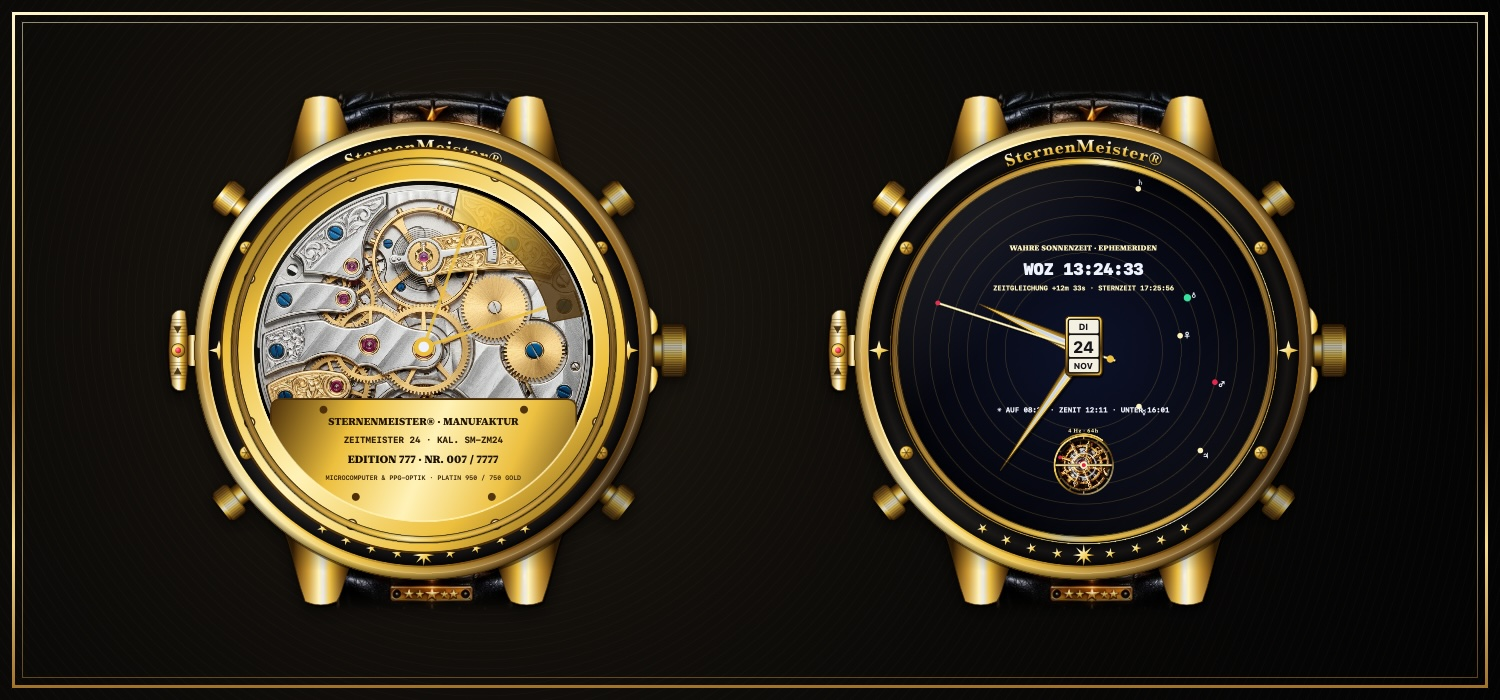
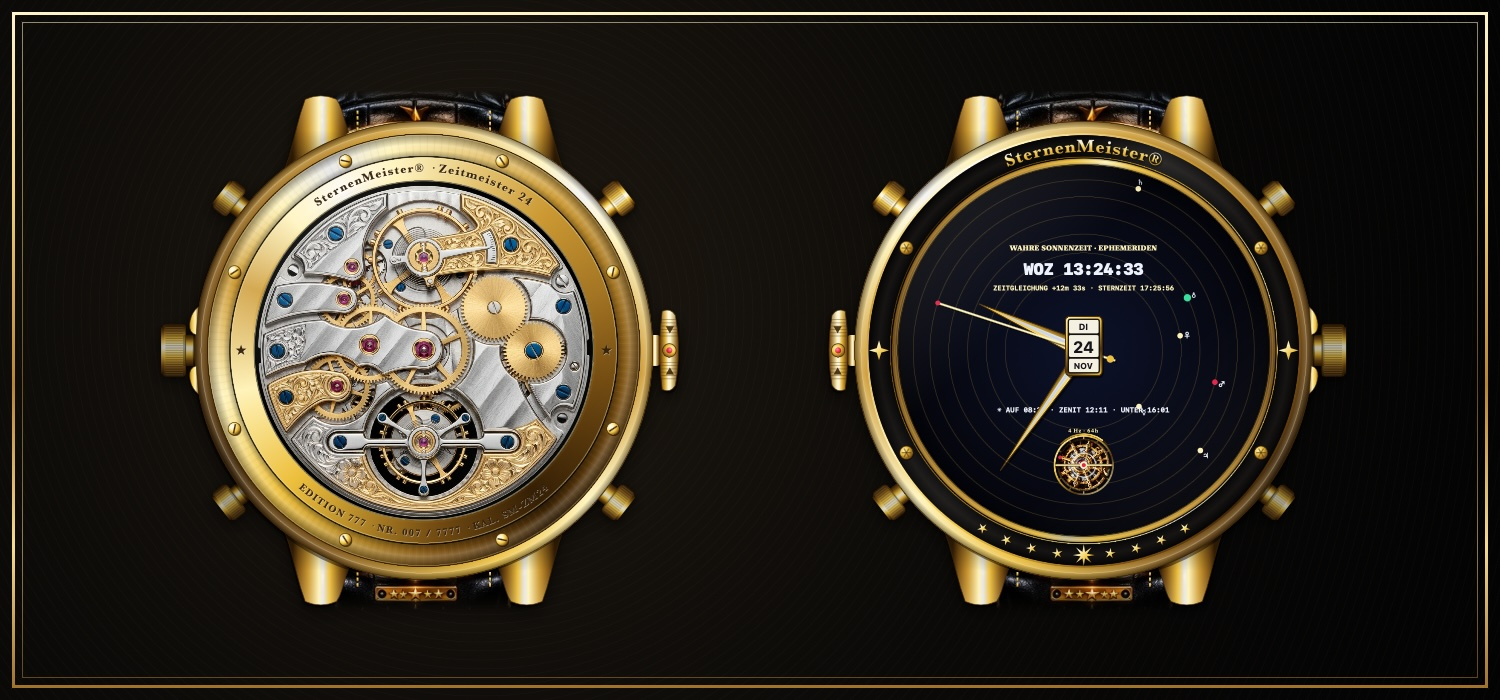
feat: v2.8.1 (Build 35) – real case back with flip animation; updated case back images

Changed region(s): [[0.092, 0.12, 0.46, 0.87]]

diff --git a/README.ru.md b/README.ru.md
@@ -8,7 +8,7 @@
 <h3 align="center"><i>24-часовые аналоговые гибридные часы</i> · Часы гиперлюкс-класса для рабочего стола macOS</h3>
 
 <p align="center">
-  <a href="https://github.com/SonnerStudio/SternenMeister-ZeitMeister24-Widget/releases/latest/download/Zeitmeister24-Widget-macOS.zip"><img src="https://img.shields.io/badge/Скачать-v2.8.0-d4af37?style=for-the-badge&labelColor=0b0a08" alt="Скачать"></a>
+  <a href="https://github.com/SonnerStudio/SternenMeister-ZeitMeister24-Widget/releases/latest/download/Zeitmeister24-Widget-macOS.zip"><img src="https://img.shields.io/badge/Скачать-v2.8.1-d4af37?style=for-the-badge&labelColor=0b0a08" alt="Скачать"></a>
   <a href="https://github.com/SonnerStudio/SternenMeister-ZeitMeister24-Widget/releases/latest"><img src="https://img.shields.io/badge/Примечания%20к%20выпуску-GitHub-e5e4e2?style=for-the-badge&labelColor=0b0a08" alt="Примечания к выпуску"></a>
   <img src="https://img.shields.io/badge/macOS-14%2B-c9a14a?style=for-the-badge&labelColor=0b0a08" alt="macOS 14+">
   <img src="https://img.shields.io/badge/Editions-9-e5e4e2?style=for-the-badge&labelColor=0b0a08" alt="9">

diff --git a/README.ar.md b/README.ar.md
@@ -8,7 +8,7 @@
 <h3 align="center"><i>ساعة هجينة تناظرية بنظام 24 ساعة</i> · ساعة فائقة الفخامة لسطح مكتب macOS</h3>
 
 <p align="center">
-  <a href="https://github.com/SonnerStudio/SternenMeister-ZeitMeister24-Widget/releases/latest/download/Zeitmeister24-Widget-macOS.zip"><img src="https://img.shields.io/badge/تنزيل-v2.8.0-d4af37?style=for-the-badge&labelColor=0b0a08" alt="تنزيل"></a>
+  <a href="https://github.com/SonnerStudio/SternenMeister-ZeitMeister24-Widget/releases/latest/download/Zeitmeister24-Widget-macOS.zip"><img src="https://img.shields.io/badge/تنزيل-v2.8.1-d4af37?style=for-the-badge&labelColor=0b0a08" alt="تنزيل"></a>
   <a href="https://github.com/SonnerStudio/SternenMeister-ZeitMeister24-Widget/releases/latest"><img src="https://img.shields.io/badge/ملاحظات%20الإصدار-GitHub-e5e4e2?style=for-the-badge&labelColor=0b0a08" alt="ملاحظات الإصدار"></a>
   <img src="https://img.shields.io/badge/macOS-14%2B-c9a14a?style=for-the-badge&labelColor=0b0a08" alt="macOS 14+">
   <img src="https://img.shields.io/badge/Editions-9-e5e4e2?style=for-the-badge&labelColor=0b0a08" alt="9">

diff --git a/README.he.md b/README.he.md
@@ -8,7 +8,7 @@
 <h3 align="center"><i>שעון היברידי אנלוגי 24 שעות</i> · שעון יוקרה-על לשולחן העבודה של macOS</h3>
 
 <p align="center">
-  <a href="https://github.com/SonnerStudio/SternenMeister-ZeitMeister24-Widget/releases/latest/download/Zeitmeister24-Widget-macOS.zip"><img src="https://img.shields.io/badge/הורדה-v2.8.0-d4af37?style=for-the-badge&labelColor=0b0a08" alt="הורדה"></a>
+  <a href="https://github.com/SonnerStudio/SternenMeister-ZeitMeister24-Widget/releases/latest/download/Zeitmeister24-Widget-macOS.zip"><img src="https://img.shields.io/badge/הורדה-v2.8.1-d4af37?style=for-the-badge&labelColor=0b0a08" alt="הורדה"></a>
   <a href="https://github.com/SonnerStudio/SternenMeister-ZeitMeister24-Widget/releases/latest"><img src="https://img.shields.io/badge/הערות%20גרסה-GitHub-e5e4e2?style=for-the-badge&labelColor=0b0a08" alt="הערות גרסה"></a>
   <img src="https://img.shields.io/badge/macOS-14%2B-c9a14a?style=for-the-badge&labelColor=0b0a08" alt="macOS 14+">
   <img src="https://img.shields.io/badge/Editions-9-e5e4e2?style=for-the-badge&labelColor=0b0a08" alt="9">

diff --git a/README.fr.md b/README.fr.md
@@ -8,7 +8,7 @@
 <h3 align="center"><i>Montre hybride analogique 24 heures</i> · La montre d’hyper-luxe pour le bureau macOS</h3>
 
 <p align="center">
-  <a href="https://github.com/SonnerStudio/SternenMeister-ZeitMeister24-Widget/releases/latest/download/Zeitmeister24-Widget-macOS.zip"><img src="https://img.shields.io/badge/Télécharger-v2.8.0-d4af37?style=for-the-badge&labelColor=0b0a08" alt="Télécharger"></a>
+  <a href="https://github.com/SonnerStudio/SternenMeister-ZeitMeister24-Widget/releases/latest/download/Zeitmeister24-Widget-macOS.zip"><img src="https://img.shields.io/badge/Télécharger-v2.8.1-d4af37?style=for-the-badge&labelColor=0b0a08" alt="Télécharger"></a>
   <a href="https://github.com/SonnerStudio/SternenMeister-ZeitMeister24-Widget/releases/latest"><img src="https://img.shields.io/badge/Notes%20de%20version-GitHub-e5e4e2?style=for-the-badge&labelColor=0b0a08" alt="Notes de version"></a>
   <img src="https://img.shields.io/badge/macOS-14%2B-c9a14a?style=for-the-badge&labelColor=0b0a08" alt="macOS 14+">
   <img src="https://img.shields.io/badge/Editions-9-e5e4e2?style=for-the-badge&labelColor=0b0a08" alt="9">

diff --git a/README.yi.md b/README.yi.md
@@ -8,7 +8,7 @@
 <h3 align="center"><i>24-shoen analog-hibrid zeyger</i> · Der hiper-luksus zeyger far dem macOS-shraybtish</h3>
 
 <p align="center">
-  <a href="https://github.com/SonnerStudio/SternenMeister-ZeitMeister24-Widget/releases/latest/download/Zeitmeister24-Widget-macOS.zip"><img src="https://img.shields.io/badge/Aropnemen-v2.8.0-d4af37?style=for-the-badge&labelColor=0b0a08" alt="Aropnemen"></a>
+  <a href="https://github.com/SonnerStudio/SternenMeister-ZeitMeister24-Widget/releases/latest/download/Zeitmeister24-Widget-macOS.zip"><img src="https://img.shields.io/badge/Aropnemen-v2.8.1-d4af37?style=for-the-badge&labelColor=0b0a08" alt="Aropnemen"></a>
   <a href="https://github.com/SonnerStudio/SternenMeister-ZeitMeister24-Widget/releases/latest"><img src="https://img.shields.io/badge/Notitsn%20tsu%20der%20oysgabe-GitHub-e5e4e2?style=for-the-badge&labelColor=0b0a08" alt="Notitsn tsu der oysgabe"></a>
   <img src="https://img.shields.io/badge/macOS-14%2B-c9a14a?style=for-the-badge&labelColor=0b0a08" alt="macOS 14+">
   <img src="https://img.shields.io/badge/Editions-9-e5e4e2?style=for-the-badge&labelColor=0b0a08" alt="9">

diff --git a/README.md b/README.md
@@ -8,7 +8,7 @@
 <h3 align="center"><i>24-Stunden-Analoguhr-Hybrid</i> · Die Hyper-Luxus-Uhr für den macOS-Schreibtisch</h3>
 
 <p align="center">
-  <a href="https://github.com/SonnerStudio/SternenMeister-ZeitMeister24-Widget/releases/latest/download/Zeitmeister24-Widget-macOS.zip"><img src="https://img.shields.io/badge/Herunterladen-v2.8.0-d4af37?style=for-the-badge&labelColor=0b0a08" alt="Herunterladen"></a>
+  <a href="https://github.com/SonnerStudio/SternenMeister-ZeitMeister24-Widget/releases/latest/download/Zeitmeister24-Widget-macOS.zip"><img src="https://img.shields.io/badge/Herunterladen-v2.8.1-d4af37?style=for-the-badge&labelColor=0b0a08" alt="Herunterladen"></a>
   <a href="https://github.com/SonnerStudio/SternenMeister-ZeitMeister24-Widget/releases/latest"><img src="https://img.shields.io/badge/Release--Notizen-GitHub-e5e4e2?style=for-the-badge&labelColor=0b0a08" alt="Release-Notizen"></a>
   <img src="https://img.shields.io/badge/macOS-14%2B-c9a14a?style=for-the-badge&labelColor=0b0a08" alt="macOS 14+">
   <img src="https://img.shields.io/badge/Editions-9-e5e4e2?style=for-the-badge&labelColor=0b0a08" alt="9">

diff --git a/README.nl.md b/README.nl.md
@@ -8,7 +8,7 @@
 <h3 align="center"><i>24-uurs analoog hybride horloge</i> · Het hyperluxe uurwerk voor het macOS-bureaublad</h3>
 
 <p align="center">
-  <a href="https://github.com/SonnerStudio/SternenMeister-ZeitMeister24-Widget/releases/latest/download/Zeitmeister24-Widget-macOS.zip"><img src="https://img.shields.io/badge/Downloaden-v2.8.0-d4af37?style=for-the-badge&labelColor=0b0a08" alt="Downloaden"></a>
+  <a href="https://github.com/SonnerStudio/SternenMeister-ZeitMeister24-Widget/releases/latest/download/Zeitmeister24-Widget-macOS.zip"><img src="https://img.shields.io/badge/Downloaden-v2.8.1-d4af37?style=for-the-badge&labelColor=0b0a08" alt="Downloaden"></a>
   <a href="https://github.com/SonnerStudio/SternenMeister-ZeitMeister24-Widget/releases/latest"><img src="https://img.shields.io/badge/Release--notities-GitHub-e5e4e2?style=for-the-badge&labelColor=0b0a08" alt="Release-notities"></a>
   <img src="https://img.shields.io/badge/macOS-14%2B-c9a14a?style=for-the-badge&labelColor=0b0a08" alt="macOS 14+">
   <img src="https://img.shields.io/badge/Editions-9-e5e4e2?style=for-the-badge&labelColor=0b0a08" alt="9">

diff --git a/README.en.md b/README.en.md
@@ -8,7 +8,7 @@
 <h3 align="center"><i>24-Hour Analogue Hybrid Watch</i> · The hyper-luxury timepiece for the macOS desktop</h3>
 
 <p align="center">
-  <a href="https://github.com/SonnerStudio/SternenMeister-ZeitMeister24-Widget/releases/latest/download/Zeitmeister24-Widget-macOS.zip"><img src="https://img.shields.io/badge/Download-v2.8.0-d4af37?style=for-the-badge&labelColor=0b0a08" alt="Download"></a>
+  <a href="https://github.com/SonnerStudio/SternenMeister-ZeitMeister24-Widget/releases/latest/download/Zeitmeister24-Widget-macOS.zip"><img src="https://img.shields.io/badge/Download-v2.8.1-d4af37?style=for-the-badge&labelColor=0b0a08" alt="Download"></a>
   <a href="https://github.com/SonnerStudio/SternenMeister-ZeitMeister24-Widget/releases/latest"><img src="https://img.shields.io/badge/Release%20notes-GitHub-e5e4e2?style=for-the-badge&labelColor=0b0a08" alt="Release notes"></a>
   <img src="https://img.shields.io/badge/macOS-14%2B-c9a14a?style=for-the-badge&labelColor=0b0a08" alt="macOS 14+">
   <img src="https://img.shields.io/badge/Editions-9-e5e4e2?style=for-the-badge&labelColor=0b0a08" alt="9">

diff --git a/README.zh.md b/README.zh.md
@@ -8,7 +8,7 @@
 <h3 align="center"><i>24小时指针混合腕表</i> · macOS 桌面上的超奢华腕表</h3>
 
 <p align="center">
-  <a href="https://github.com/SonnerStudio/SternenMeister-ZeitMeister24-Widget/releases/latest/download/Zeitmeister24-Widget-macOS.zip"><img src="https://img.shields.io/badge/下载-v2.8.0-d4af37?style=for-the-badge&labelColor=0b0a08" alt="下载"></a>
+  <a href="https://github.com/SonnerStudio/SternenMeister-ZeitMeister24-Widget/releases/latest/download/Zeitmeister24-Widget-macOS.zip"><img src="https://img.shields.io/badge/下载-v2.8.1-d4af37?style=for-the-badge&labelColor=0b0a08" alt="下载"></a>
   <a href="https://github.com/SonnerStudio/SternenMeister-ZeitMeister24-Widget/releases/latest"><img src="https://img.shields.io/badge/版本说明-GitHub-e5e4e2?style=for-the-badge&labelColor=0b0a08" alt="版本说明"></a>
   <img src="https://img.shields.io/badge/macOS-14%2B-c9a14a?style=for-the-badge&labelColor=0b0a08" alt="macOS 14+">
   <img src="https://img.shields.io/badge/Editions-9-e5e4e2?style=for-the-badge&labelColor=0b0a08" alt="9">
